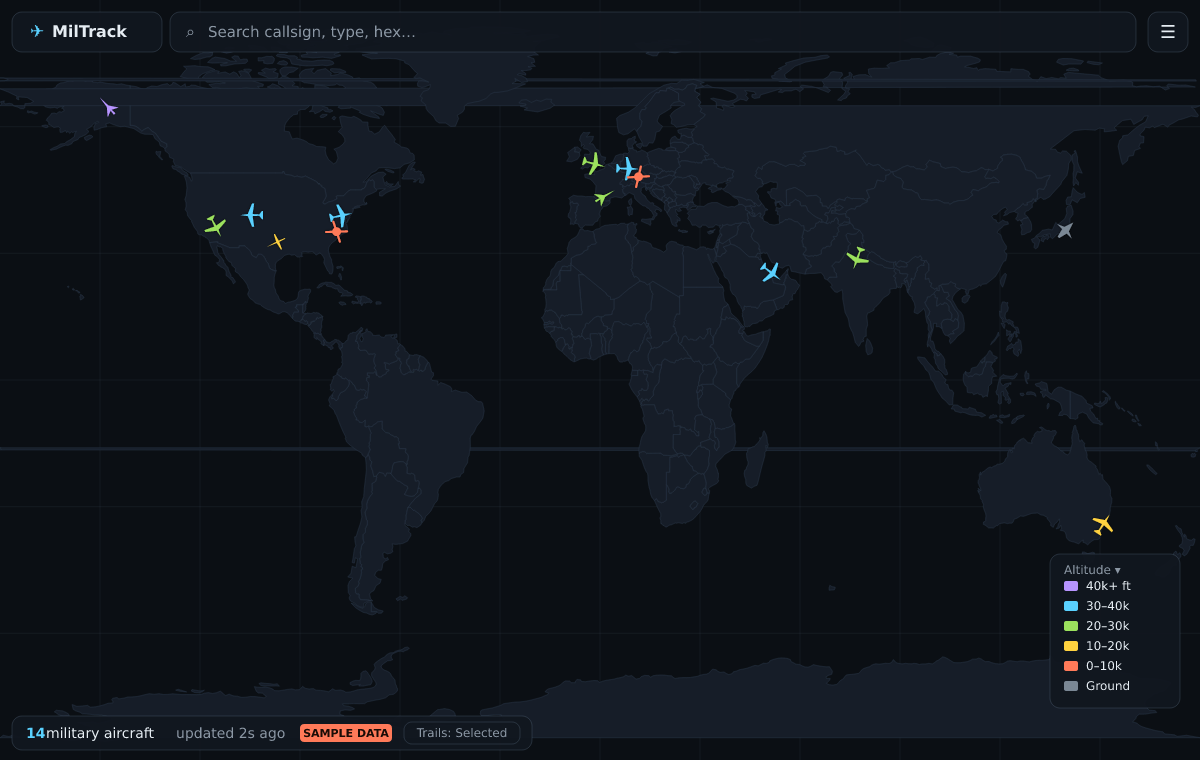
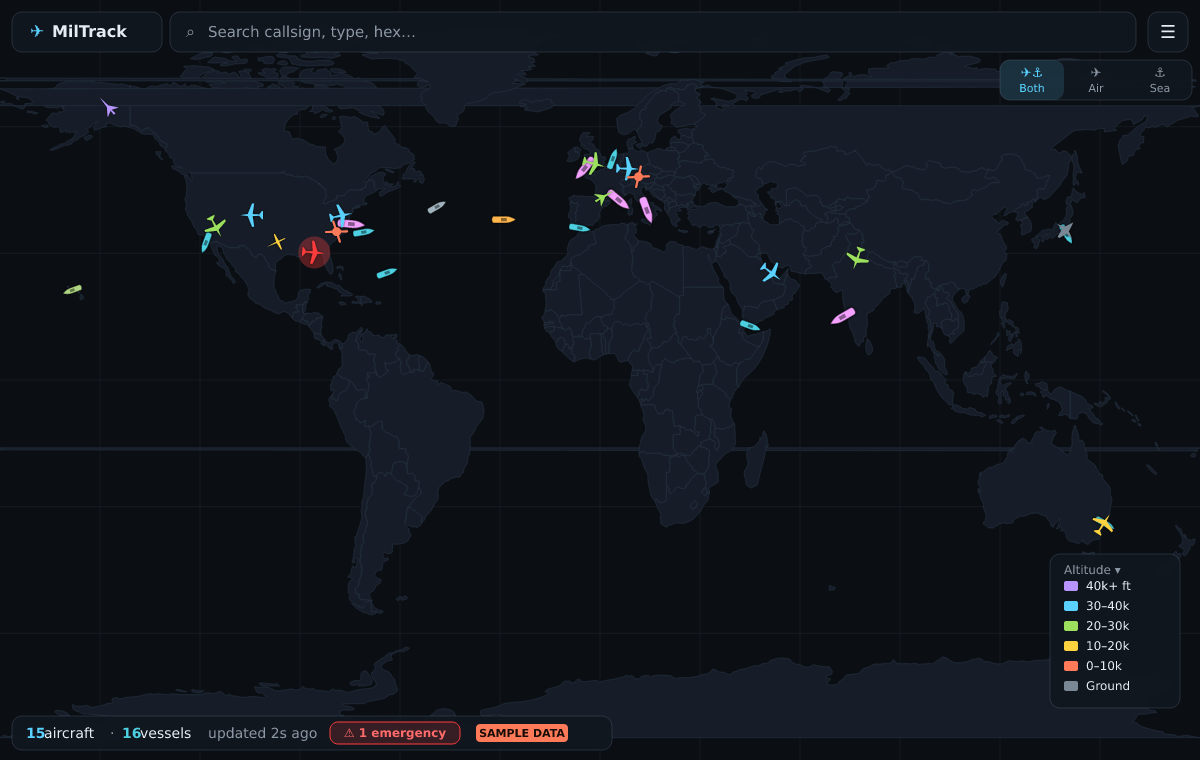
Update demo renderer and README for vessels + emergencies
Demo images now show both layers (aircraft + naval vessels), the emergency
aircraft with its halo, the Air/Sea/Both toggle, and a selected aircraft
carrier with its detail panel and voyage trail. README documents the vessel
layer, emergency highlighting, layer toggle, and the vessel-data caveat plus
VESSELS_UPSTREAM_URL.

https://claude.ai/code/session_019F28sjktp2FXU2XKgy1bd4

diff --git a/README.md b/README.md
@@ -16,17 +16,22 @@ Rendered from the app's real sample data, glyphs, and layout (`npm run demo`):
 
 ## Features
 
-- 🌍 Full-screen dark world map (CARTO basemap) with live military aircraft
-- ✈ Type-aware rotating icons — fighters, heavies/tankers, helicopters and
+- 🌍 Full-screen dark world map (CARTO basemap) with live military **aircraft and naval vessels**
+- ✈ Type-aware aircraft icons — fighters, heavies/tankers, helicopters and
   drones get distinct glyphs — colored by altitude, auto-refreshing
-- 👆 Tap an aircraft for details: class, callsign, type, registration, hex,
-  squawk, altitude, vertical rate, speed, heading, position
+- ⚓ **Military vessel tracking** — carriers, destroyers, cruisers, frigates,
+  submarines, patrol and support ships as rotating hull glyphs colored by class
+- 🔀 **Air / Sea / Both** layer toggle
+- 🚨 **Emergency highlighting** — aircraft squawking 7500/7600/7700 (or an ADS-B
+  emergency) pulse red/orange and are surfaced in the list and status bar
+- 👆 Tap any contact for details (aircraft: class, callsign, type, reg, hex,
+  squawk, altitude, speed, heading; vessel: type, navy, hull, MMSI, speed, course)
 - 🎯 **Follow mode** keeps a selected aircraft centered as it moves
 - 🔗 **Shareable deep-links** — the selected aircraft is encoded in the URL
   (`#sel=<hex>`) and restored on reload
-- 🔎 Search/filter by callsign, type, hex, or registration
-- 📋 Sortable list view of all tracked aircraft
-- 🛰 Per-aircraft flight trails (selected by default, or show all)
+- 🔎 Search/filter across both aircraft and vessels
+- 📋 Sortable, tabbed list view (Aircraft | Vessels)
+- 🛰 Flight/voyage trails for the selected contact (or all aircraft trails)
 - 🗺 Altitude color legend
 - 📲 Installable PWA with offline app shell
 
@@ -78,13 +83,24 @@ Open http://localhost:3001. On a phone (same network) use "Add to Home Screen".
 
 | Variable           | Default                                  | Purpose                              |
 | ------------------ | ---------------------------------------- | ------------------------------------ |
-| `PORT`             | `3001`                                   | Server port                          |
-| `UPSTREAM_URL`     | `https://api.airplanes.live/v2/mil/`     | Aircraft feed (ADS-B Exchange v2)    |
-| `POLL_INTERVAL_MS` | `2000`                                   | Upstream poll interval               |
-| `USE_SAMPLE_DATA`  | _(off)_ set `1`                          | Serve bundled sample data on failure |
+| `PORT`                 | `3001`                                   | Server port                              |
+| `UPSTREAM_URL`         | `https://api.airplanes.live/v2/mil/`     | Aircraft feed (ADS-B Exchange v2)        |
+| `VESSELS_UPSTREAM_URL` | _(unset)_                                | Live AIS vessel feed (see note below)    |
+| `POLL_INTERVAL_MS`     | `2000`                                   | Upstream poll interval                   |
+| `USE_SAMPLE_DATA`      | _(off)_ set `1`                          | Serve bundled aircraft sample on failure |
 
-The upstream is swappable for any ADS-B Exchange v2-compatible feed (e.g.
-adsb.fi) via `UPSTREAM_URL`.
+The aircraft upstream is swappable for any ADS-B Exchange v2-compatible feed
+(e.g. adsb.fi) via `UPSTREAM_URL`.
+
+### A note on vessel data
+
+Unlike military aircraft (airplanes.live offers a clean `/v2/mil` feed), there
+is **no free "military vessels only" feed** — warships routinely disable AIS, so
+live coverage is sparse. By default the server therefore serves a **curated set
+of notable navy vessels** (carriers, destroyers, subs, etc.) with simulated
+movement, so the sea layer is always demonstrable. Point `VESSELS_UPSTREAM_URL`
+at any source returning `{ "vessels": [ ... ] }` (AIS gateway, your own
+aggregator) to show real positions.
 
 ## Project layout
 
